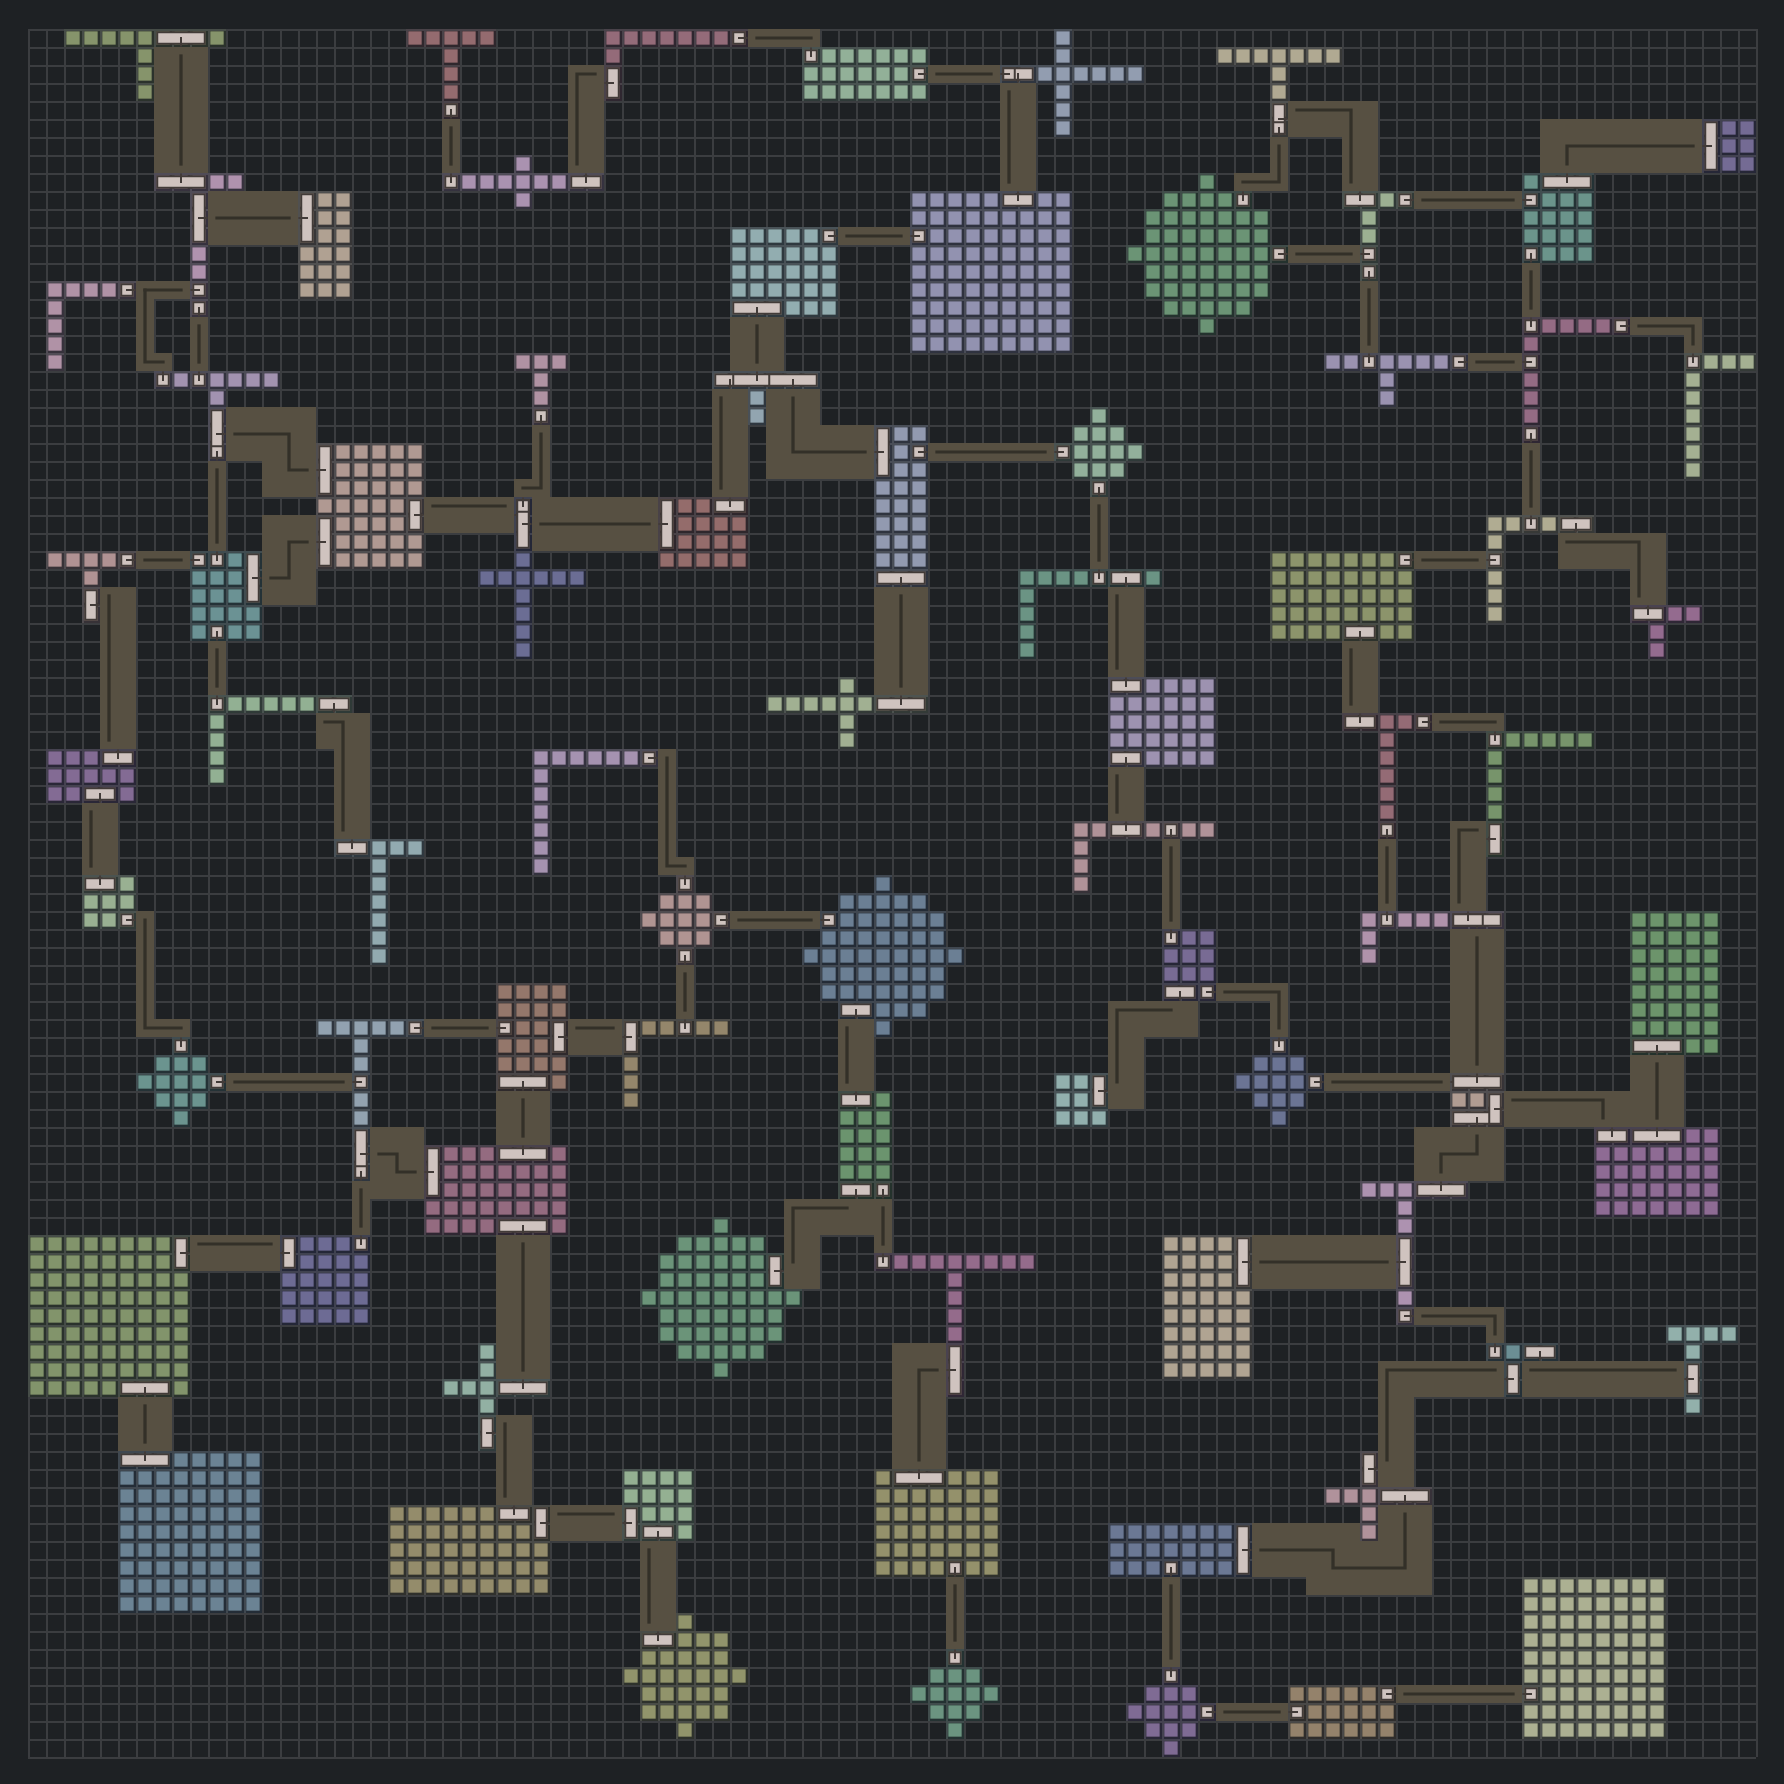
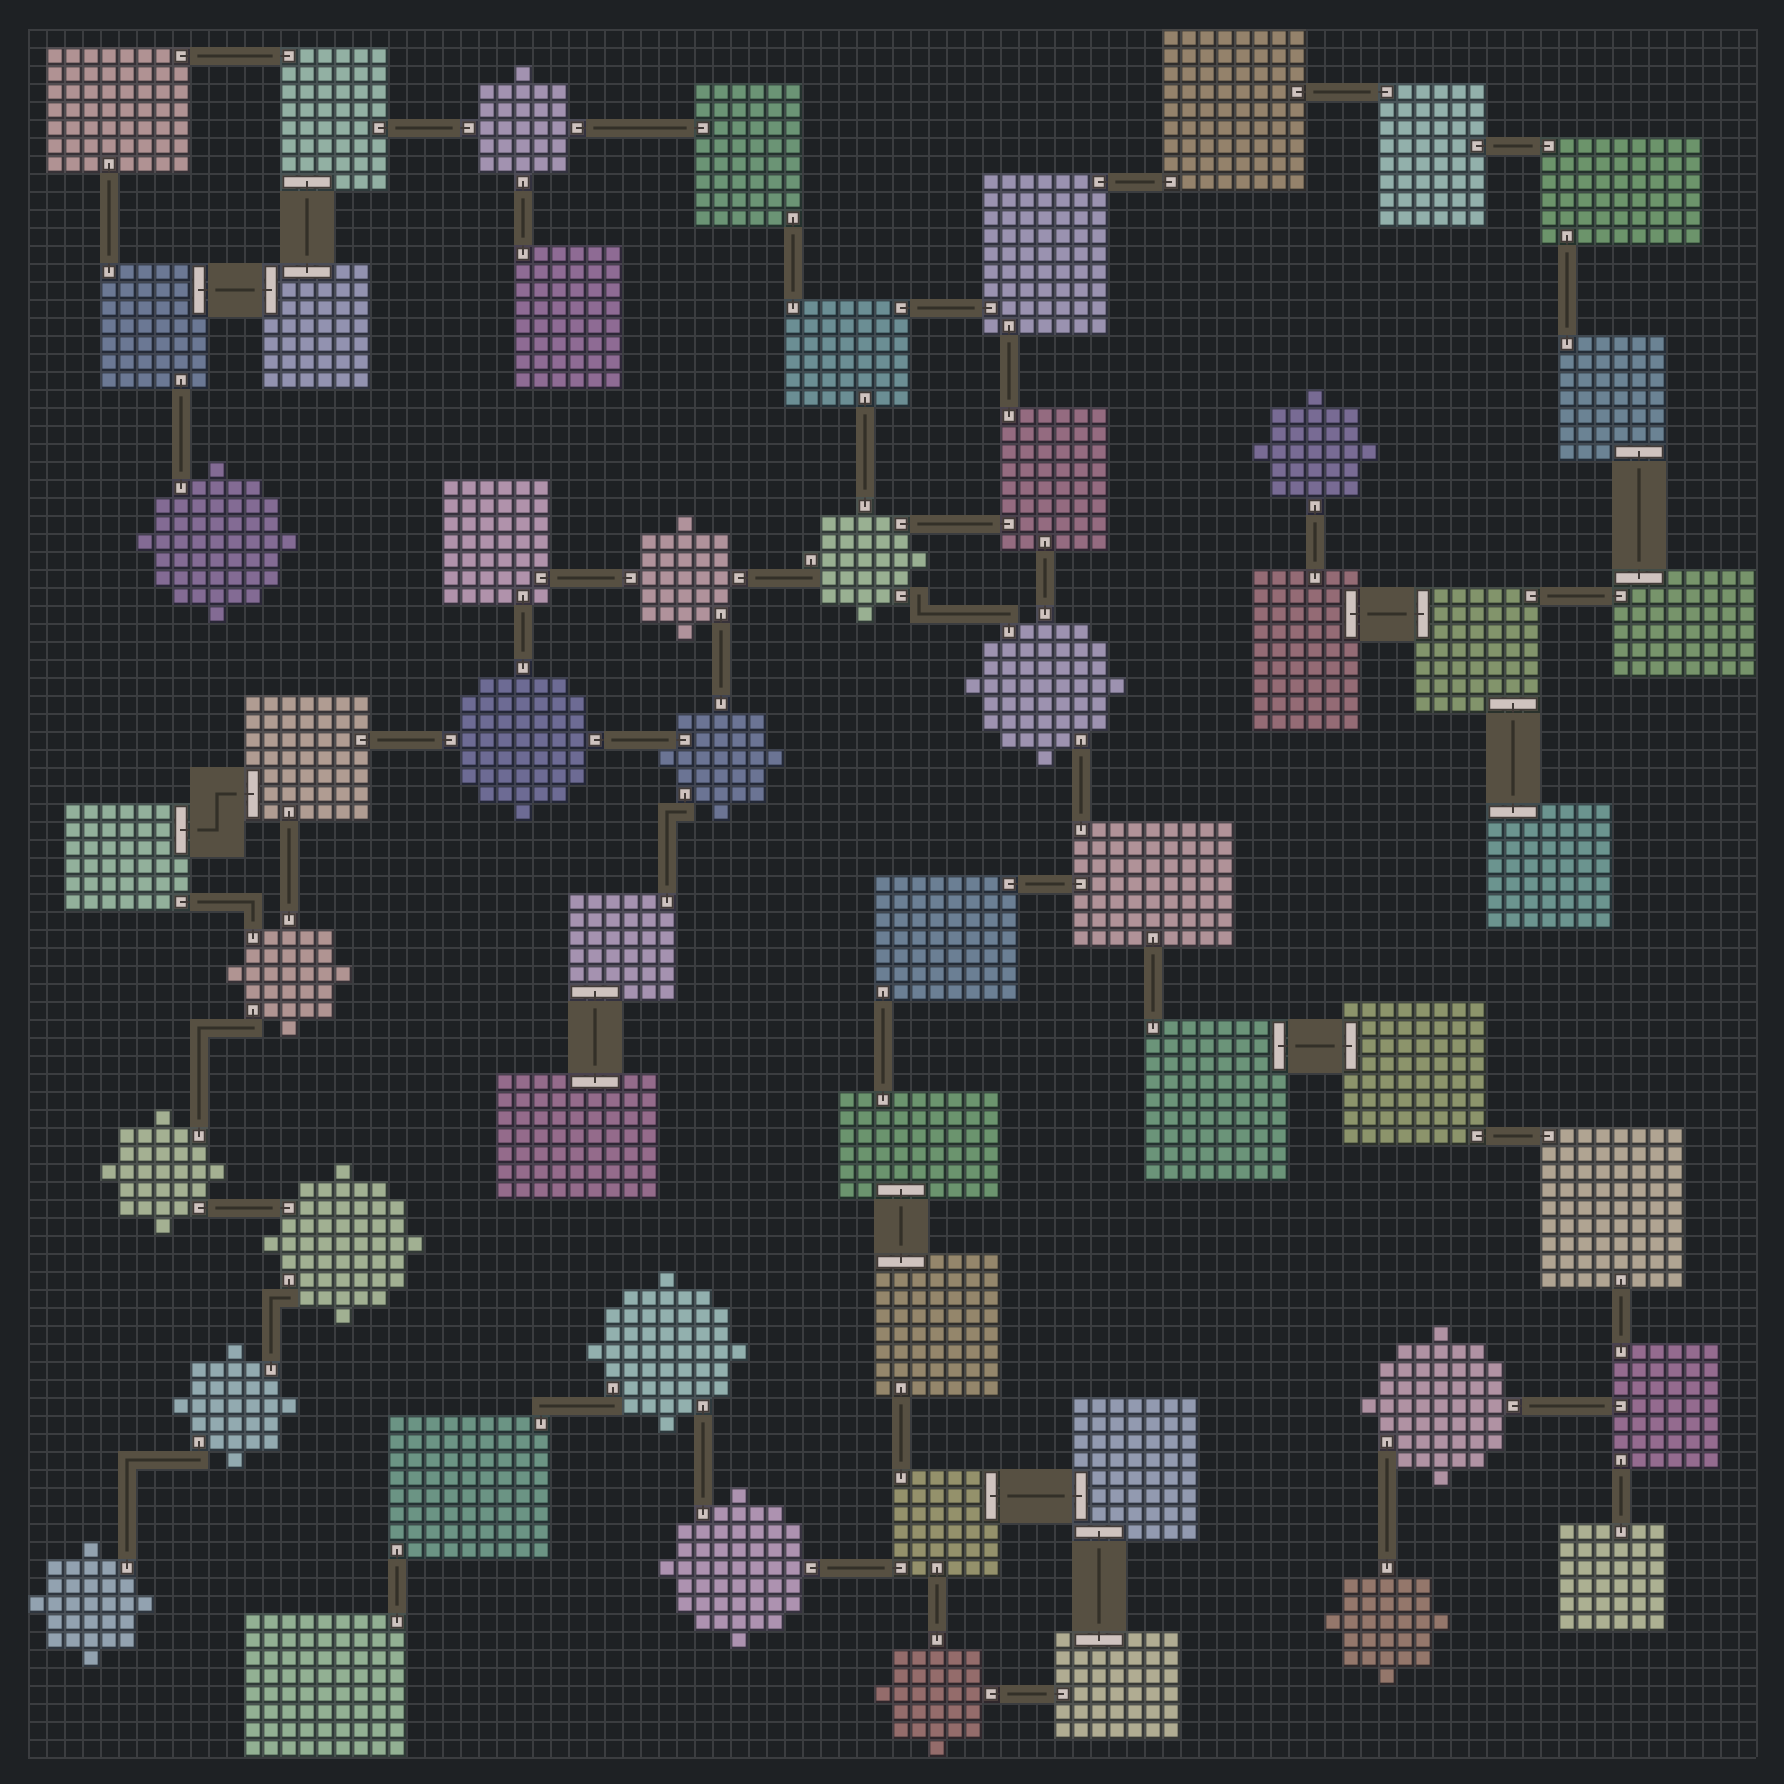
docs: the example and the front page follow the new contract
Both still sent min_width, which the previous commit made invalid, so the
debug page's Load example button produced a request the server rejected.
The example now carries per-shape ranges, and it was checked by posting the
literal string from app.js to a running server rather than by reading it.

The README picture is regenerated to what was asked for: boxes and circles
only, and corridors of one or three cells with nothing in between. It shows
both new rules at once -- no corridor is two cells wide because two was
never declared, and no two corridors merge.

The circle range is 7 to 9 rather than the 6 that was requested, because
there is no 6x6 circle: the mask requires a square, odd side of at least 5,
since a disc on a square grid needs a centre cell. Seven is the smallest
circle at or above six.

Both Go blocks were pasted together, compiled and run, and they print the
output block exactly: 54 rooms, 59 corridors, 118 doors, and a corridor
whose three-cell route occupies nine cells through a three-cell doorway.

One claim was written and then withdrawn. The draft said CorridorIDs now
always holds exactly one id; every door in the generated layout did hold
one, but the invariant only requires at least one and nothing proves the
stronger statement, so the text was narrowed to what the invariant does
enforce -- no cell belongs to two corridors, therefore a corridor cell
names exactly one.

diff --git a/internal/httpdebug/assets/app.js b/internal/httpdebug/assets/app.js
@@ -14,18 +14,19 @@ const exampleRequest = `{
     "room_role_requests": [],
     "density_regions": [],
     "room_geometry": {
-      "min_width": 3,
-      "max_width": 9,
-      "min_height": 3,
-      "max_height": 9,
       "max_footprint_cells": 81,
       "min_room_gap": 1,
       "shapes": [
-        {"shape": "ROOM_SHAPE_RECTANGLE", "weight": 4},
-        {"shape": "ROOM_SHAPE_L", "weight": 2},
-        {"shape": "ROOM_SHAPE_T", "weight": 2},
-        {"shape": "ROOM_SHAPE_CROSS", "weight": 1},
-        {"shape": "ROOM_SHAPE_CIRCLE", "weight": 2}
+        {"shape": "ROOM_SHAPE_RECTANGLE", "weight": 4,
+         "width": {"min": 3, "max": 9}, "height": {"min": 3, "max": 9}},
+        {"shape": "ROOM_SHAPE_L", "weight": 2,
+         "width": {"min": 3, "max": 9}, "height": {"min": 3, "max": 9}},
+        {"shape": "ROOM_SHAPE_T", "weight": 2,
+         "width": {"min": 3, "max": 9}, "height": {"min": 3, "max": 9}},
+        {"shape": "ROOM_SHAPE_CROSS", "weight": 1,
+         "width": {"min": 3, "max": 9}, "height": {"min": 3, "max": 9}},
+        {"shape": "ROOM_SHAPE_CIRCLE", "weight": 2,
+         "width": {"min": 5, "max": 9}, "height": {"min": 5, "max": 9}}
       ]
     },
     "corridor_geometry": {

diff --git a/README.md b/README.md
@@ -2,15 +2,15 @@
 
 Deterministic 2D dungeon generation for Go. One `Config` and one `Seed` in, one immutable `Layout` out: a grid of cells, rooms, corridors and doors.
 
-![A 96×96 dungeon from seed 20260928: rooms carry their own hue, corridors are ochre bands one to three cells wide with the centerline drawn through them, doors are pale bars as wide as their opening, and a faint lattice is the grid.](.github/assets/map.png)
+![A 96×96 dungeon from seed 20260928: boxes and circles only, each room in its own hue, corridors one or three cells wide in ochre, doors as pale bars matching their opening, and a faint lattice is the grid.](.github/assets/map.png)
 
 ## Features
 
 - **Deterministic.** The same effective `Config` and `Seed` reproduce a `Layout` bit for bit, in the SDK and over gRPC, on amd64 and arm64. The output is frozen for the whole v1 major and pinned by golden fixtures.
 - **No dependencies in the core.** The root package imports only the standard library, enforced by a test that parses its AST. gRPC, protobuf, fx and zap live outside it.
-- **Rooms have shape.** Five canonical masks — rectangle, L, T, cross and circle — placed by Poisson disk over their real footprint, with a configurable gap between them.
+- **Rooms have shape and their own size.** Five canonical masks — rectangle, L, T, cross and circle — each carrying its own width and height range, placed by Poisson disk over the real footprint. A circle is square, odd and at least 5 across, because a disc on a square grid needs a centre cell.
 - **Connected by construction.** A Prim spanning tree guarantees every room is reachable; `ExtraEdgeCount` adds cycles back on top of it.
-- **Corridors have a width.** A weighted distribution, drawn per corridor, so a floor mixes tight passages with the occasional hall. Omit it and every corridor is one cell, as before.
+- **Corridors have a width, and keep to themselves.** A weighted distribution drawn per corridor, and only the widths you declare: ask for 1 and 3 and you never get a 2. Two corridors never share a cell, and never run side by side except where they converge on a room wall.
 - **Thematic roles.** Ask for a start, a boss and treasure rooms, and get them placed by distance rather than by luck.
 - **Density regions.** Different room spacing per area of the same floor.
 - **Three ways to run it.** Import it as a library, run it as a gRPC subprocess that announces itself on stdout, or open the local HTTP debug interface — the map above is a screenshot of it.
@@ -18,7 +18,7 @@ Deterministic 2D dungeon generation for Go. One `Config` and one `Seed` in, one 
 
 ## Input
 
-The `Config` that produced the map above:
+The `Config` that produced the map above — boxes and circles, corridors of one or three cells:
 
 ```go
 config := daedalus.Config{
@@ -32,20 +32,23 @@ config := daedalus.Config{
 		{Role: daedalus.RoomRoleTreasure, Count: 3},
 	},
 	RoomGeometry: &daedalus.RoomGeometry{
-		MinWidth: 3, MaxWidth: 9, MinHeight: 3, MaxHeight: 9,
 		MaxFootprintCells: 81, MinRoomGap: 3,
 		Shapes: []daedalus.RoomShapeWeight{
-			{Shape: daedalus.RoomShapeRectangle, Weight: 4},
-			{Shape: daedalus.RoomShapeL, Weight: 2},
-			{Shape: daedalus.RoomShapeT, Weight: 2},
-			{Shape: daedalus.RoomShapeCross, Weight: 1},
-			{Shape: daedalus.RoomShapeCircle, Weight: 2},
+			{
+				Shape: daedalus.RoomShapeRectangle, Weight: 4,
+				Width:  daedalus.DimensionRange{Min: 6, Max: 9},
+				Height: daedalus.DimensionRange{Min: 6, Max: 9},
+			},
+			{
+				Shape: daedalus.RoomShapeCircle, Weight: 2,
+				Width:  daedalus.DimensionRange{Min: 7, Max: 9},
+				Height: daedalus.DimensionRange{Min: 7, Max: 9},
+			},
 		},
 	},
 	CorridorGeometry: &daedalus.CorridorGeometry{
 		Widths: []daedalus.CorridorWidthWeight{
 			{Width: 1, Weight: 5},
-			{Width: 2, Weight: 3},
 			{Width: 3, Weight: 2},
 		},
 	},
@@ -54,13 +57,17 @@ config := daedalus.Config{
 layout, err := daedalus.Generator{}.Generate(config)
 ```
 
-Every field has a default except `Width` and `Height`. A nil `RoomGeometry` is the dynamic profile, not one-cell rooms; a nil `CorridorGeometry` is one-cell corridors. A corridor wider than the gap between two rooms cannot pass between them and degrades to a width that fits, so `MinRoomGap` is raised to 3 here to let the wide runs happen.
+Each shape carries its own size, because the shapes disagree about what a legal size is. A rectangle takes anything down to 1×1; a circle must be square, odd and at least 5 across. Asking for a 6×6 circle is `ErrInvalidConfig`, not a silent drop.
 
-Over gRPC and HTTP the request is the same thing as ProtoJSON. Field names are the proto names, and `seed` is a decimal string because it is a `uint64`:
+Only the widths you declare are used. If 3 does not fit, the corridor falls to the next declared width — never to an undeclared 2 — and if nothing declared fits, the call returns `ErrUnroutableEdge` rather than quietly bending the request.
+
+Over gRPC and HTTP the request is the same thing as ProtoJSON, with the proto field names and `seed` as a decimal string:
 
 ```json
 {"config": {"width": 96, "height": 96, "seed": "20260928",
-            "corridor_geometry": {"widths": [{"width": 2, "weight": 1}]}}}
+            "room_geometry": {"shapes": [{"shape": "ROOM_SHAPE_CIRCLE", "weight": 1,
+                                          "width": {"min": 7, "max": 9},
+                                          "height": {"min": 7, "max": 9}}]}}}
 ```
 
 ## Output
@@ -69,29 +76,29 @@ Over gRPC and HTTP the request is the same thing as ProtoJSON. Field names are t
 fmt.Printf("rooms=%d corridors=%d doors=%d cells=%d\n",
 	len(layout.Rooms), len(layout.Corridors), len(layout.Doors), len(layout.Grid.Cells))
 
-corridor := layout.Corridors[6]
-fmt.Printf("corridor %d: centerline=%d band=%d\n", corridor.ID, len(corridor.Centerline), len(corridor.Cells))
+room := layout.Rooms[0]
+fmt.Printf("room %d: shape=%d %dx%d origin=%v cells=%d\n",
+	room.ID, room.Shape, room.Width, room.Height, room.Origin, len(room.Cells))
 
-door := layout.Doors[corridor.FromDoorID]
-fmt.Printf("door %d: room=%d at=%v span=%d\n", door.ID, door.RoomID, door.At, door.Span)
+for _, corridor := range layout.Corridors {
+	if len(corridor.Cells) > len(corridor.Centerline) {
+		door := layout.Doors[corridor.FromDoorID]
+		fmt.Printf("corridor %d: centerline=%d band=%d door span=%d\n",
+			corridor.ID, len(corridor.Centerline), len(corridor.Cells), door.Span)
+		break
+	}
+}
 ```
 
 ```
-rooms=78 corridors=83 doors=165 cells=9216
-corridor 6: centerline=4 band=12
-door 12: room=14 at={22 62} span=3
+rooms=54 corridors=59 doors=118 cells=9216
+room 0: shape=0 8x7 origin={47 47} cells=56
+corridor 1: centerline=3 band=9 door span=3
 ```
 
-`Centerline` is the ordered route; `Cells` is the band it occupies, so a four-cell route three wide covers twelve. `Span` is how many boundary cells the doorway takes, never zero. `RoomID` is nil on anything but a room cell, and `CorridorIDs` is ascending, with two ids meaning two corridors share the cell.
+`Centerline` is the ordered route; `Cells` is the band it occupies, so a three-cell route three wide covers nine. `Span` is how many boundary cells the doorway takes, never zero. `RoomID` is nil on anything but a room cell, and `CorridorIDs` is ascending. Since two corridors never share a cell, a corridor cell names exactly one corridor.
 
-Over HTTP and gRPC the same `Layout` comes back as ProtoJSON. The first cell of each kind, in row-major order, and one cell shared by two corridors — note that the first room cell belongs to room 70, because scan order is not `RoomID` order:
-
-```json
-{"at": {"x": 0, "y": 0}, "kind": "CELL_KIND_EMPTY", "corridor_ids": []}
-{"at": {"x": 2, "y": 0}, "kind": "CELL_KIND_ROOM", "room_id": 70, "corridor_ids": []}
-{"at": {"x": 40, "y": 0}, "kind": "CELL_KIND_CORRIDOR", "corridor_ids": [68]}
-{"at": {"x": 6, "y": 14}, "kind": "CELL_KIND_CORRIDOR", "corridor_ids": [21, 22]}
-```
+Room 0 is always the start room when one is requested, and it is the room nearest the centre of the grid.
 
 ## Reference
 
